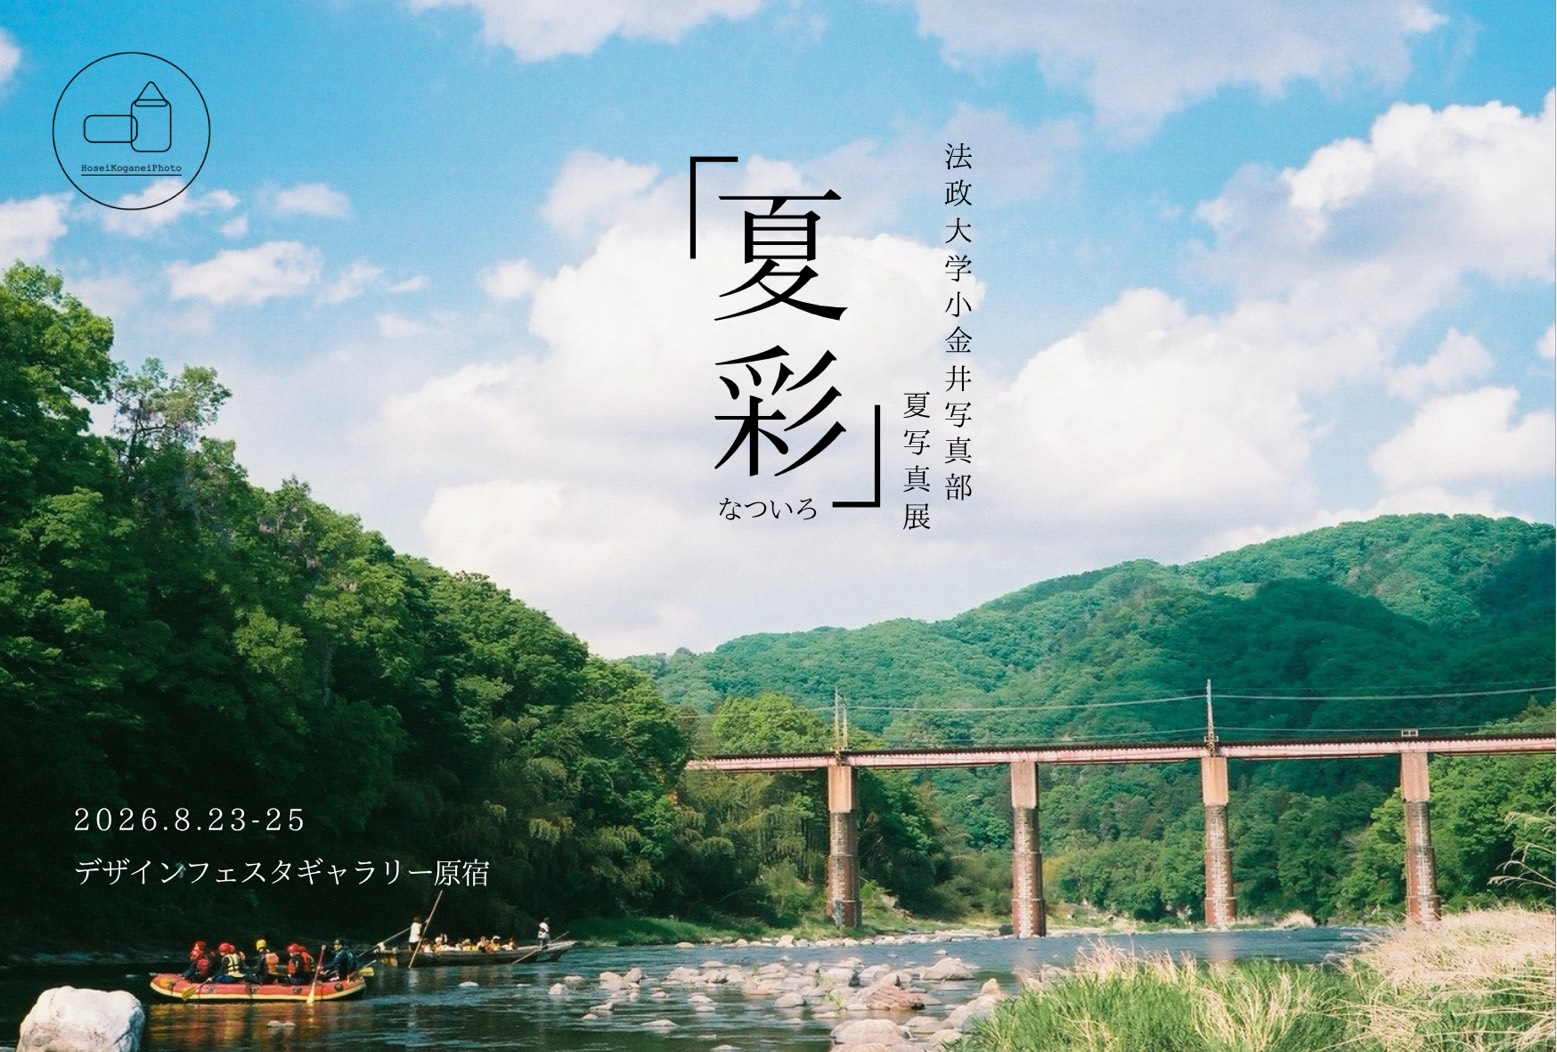
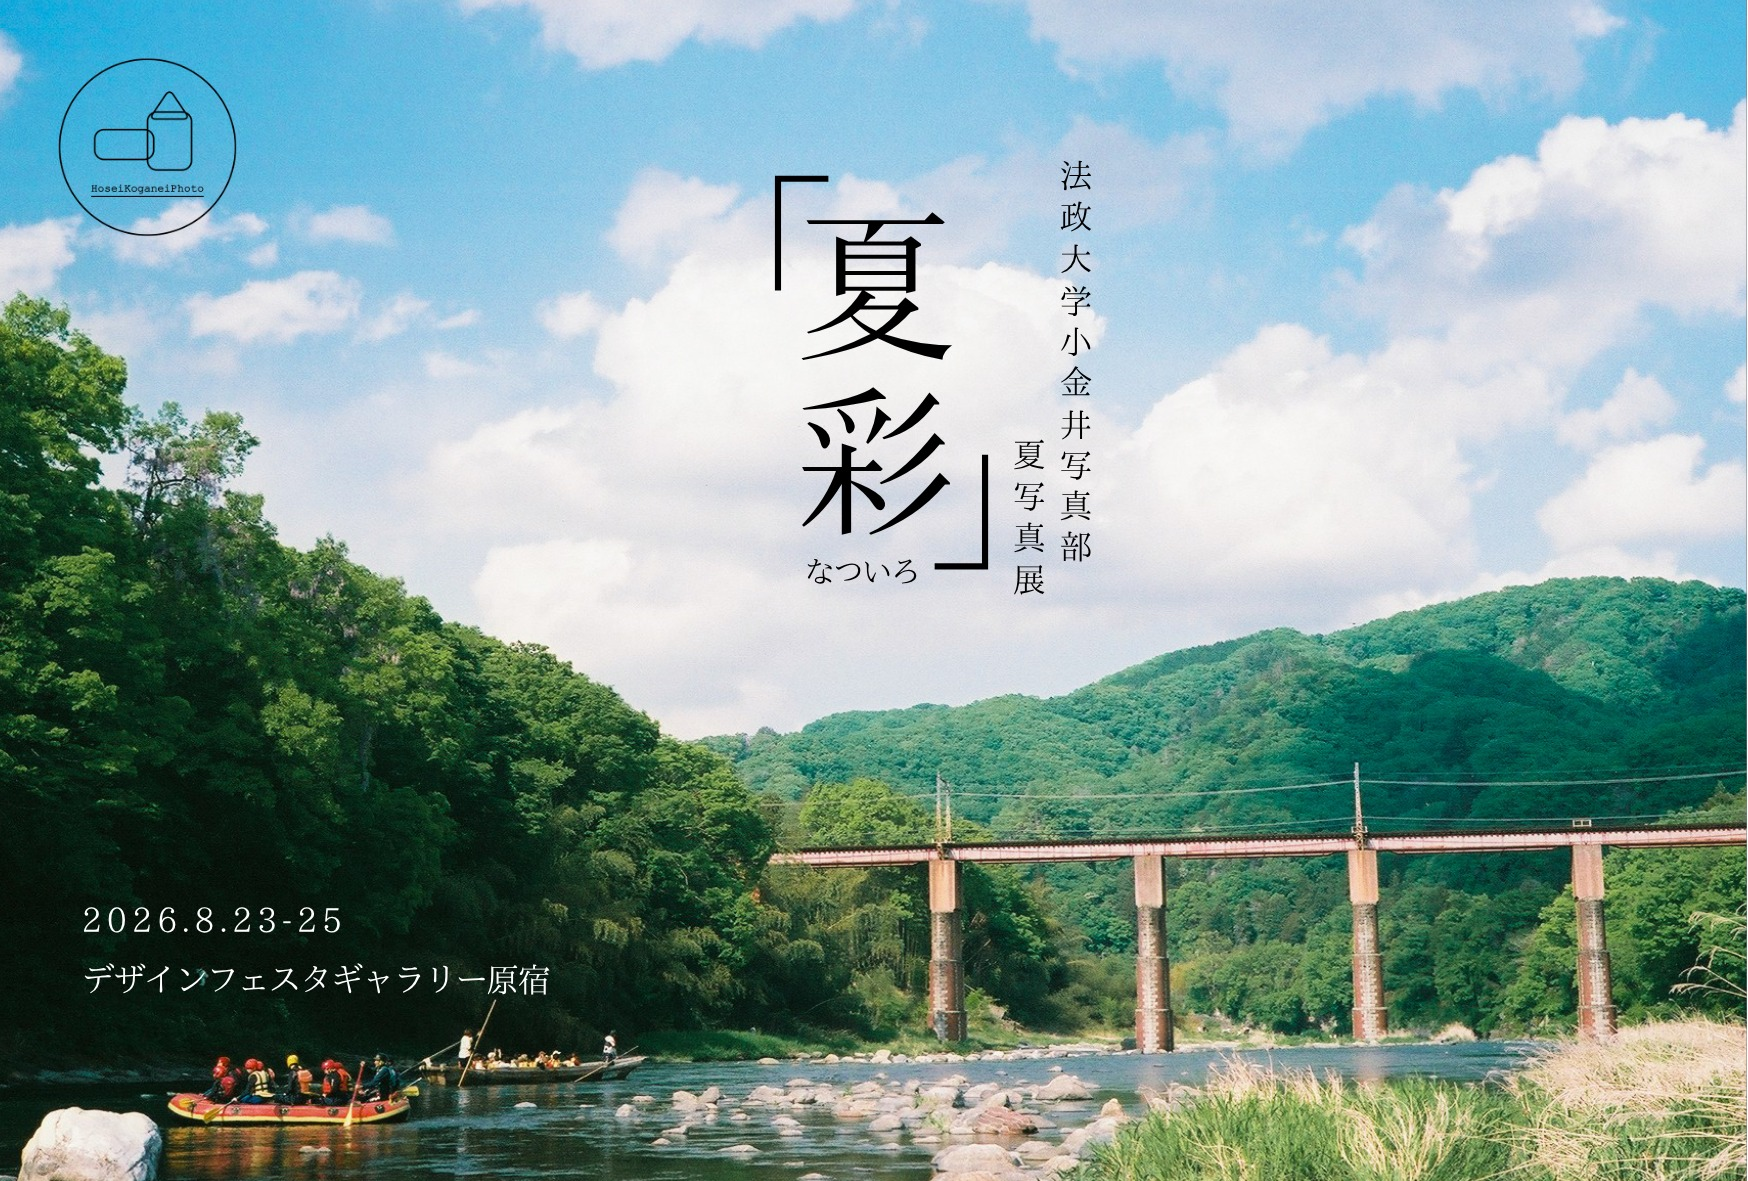
Update summer exhibition DM image

diff --git a/2026/summer/index.html b/2026/summer/index.html
@@ -12,7 +12,7 @@ works_url: "/2026/summer/works/"
 
 <div class="dm-image entry-dm-image">
   <img
-    src="{{ '/2026/summer/public-images/2026summer_natsuiroDM.jpg' | relative_url }}"
+    src="{{ '/2026/summer/public-images/2026summer_natsuiroDM.jpg' | relative_url }}?v={{ site.data.survey.asset_version | escape }}"
     alt="2026年度 夏写真展「夏彩」のDM"
   />
 </div>
